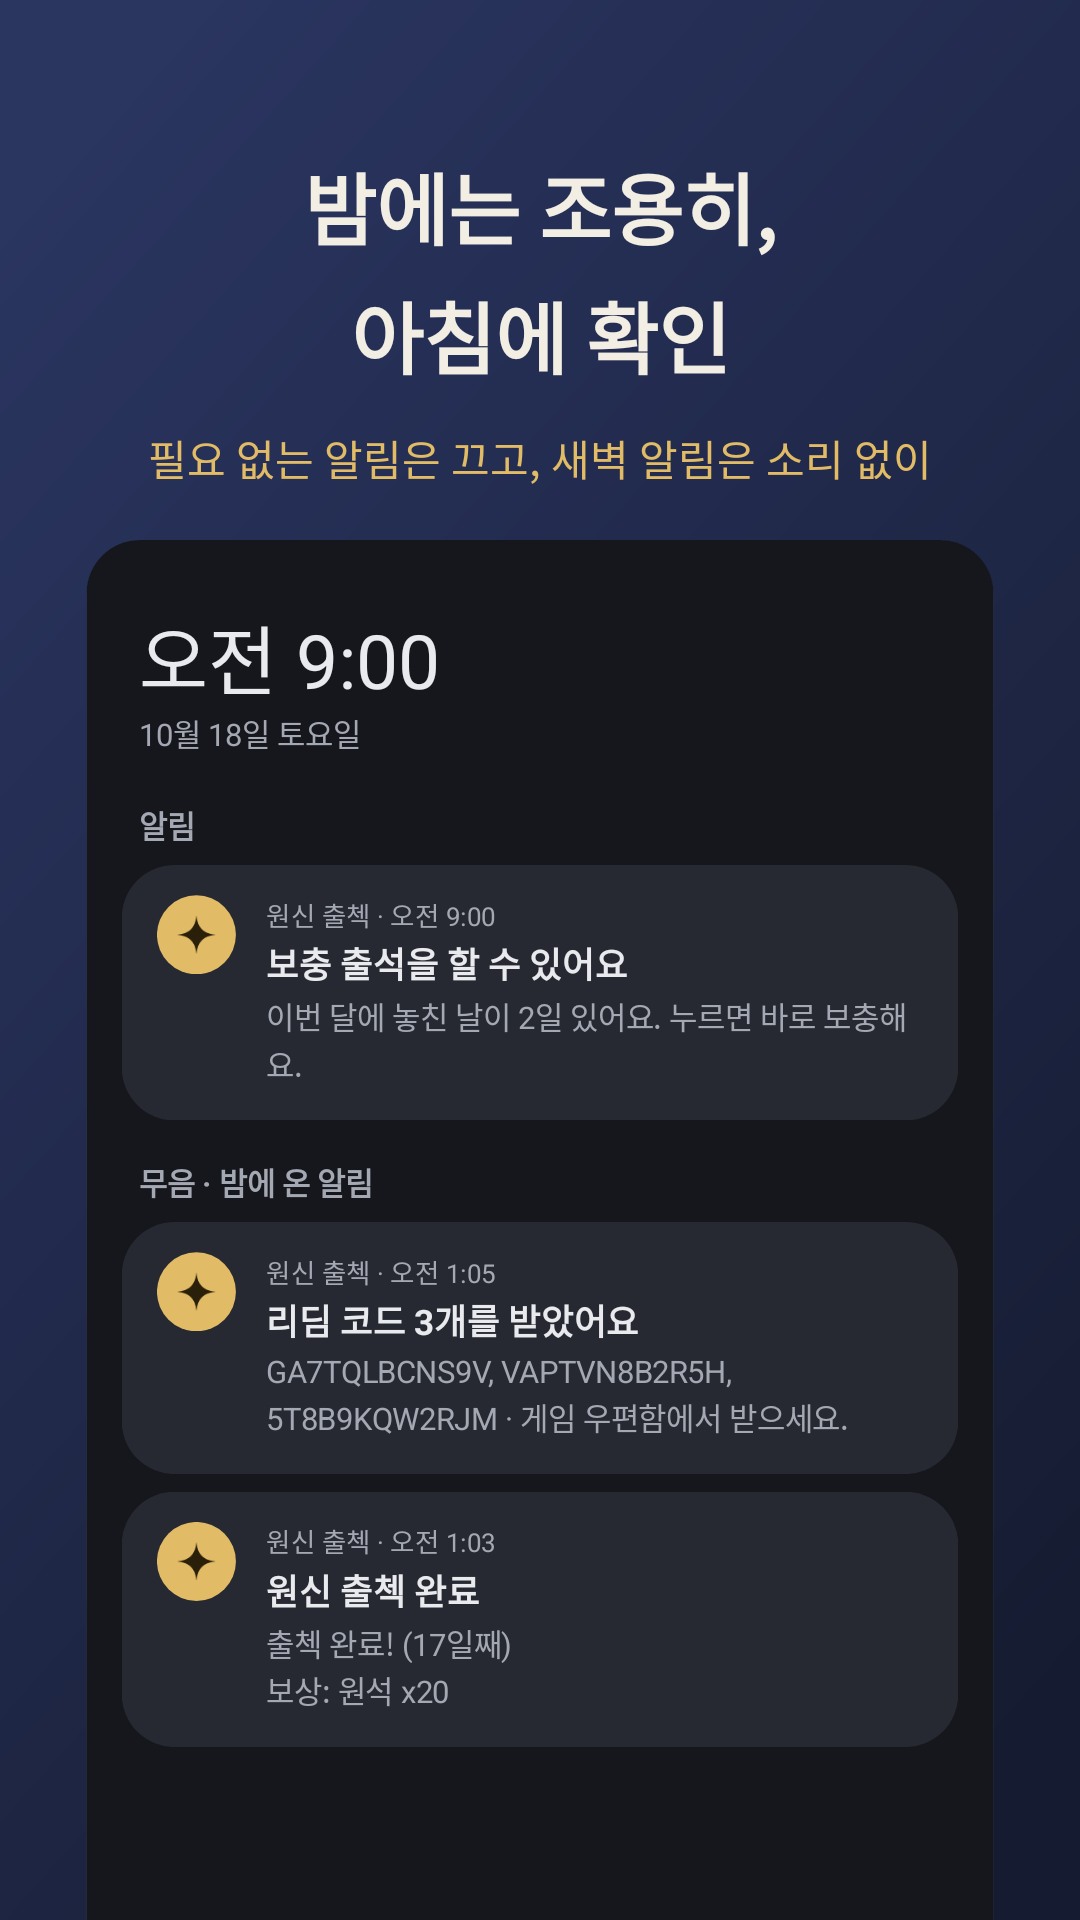
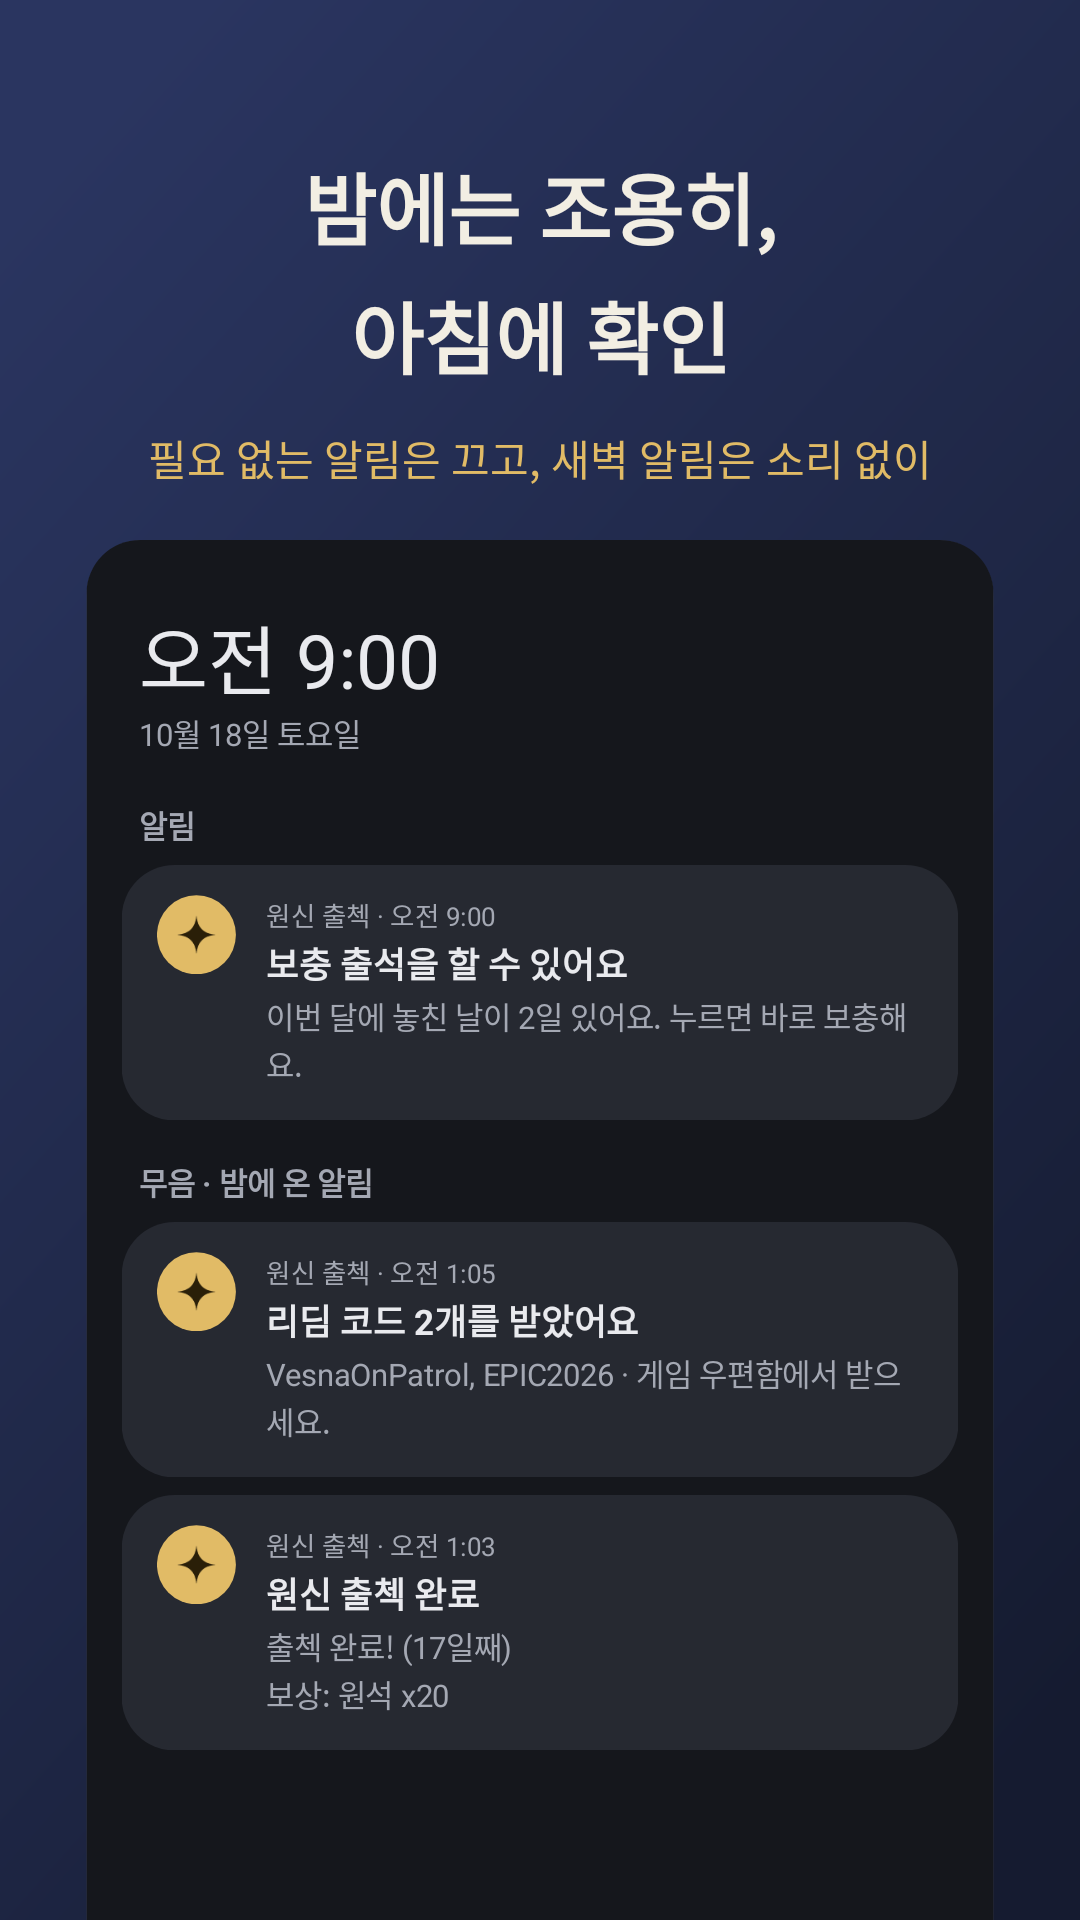
예시 리딤 코드를 실제 공개된 코드와 위키 보상으로(VesnaOnPatrol, EPIC2026, OPERACOLLAB)
스토어 스크린샷 1·3·4번과 소개 페이지 이미지도 다시 그림.

Claude-Session: https://claude.ai/code/session_01AVkzu9p2ytMeGHejvvs68H

diff --git a/app/src/test/java/kr/sumi/checkin/StoreAssetsTest.kt b/app/src/test/java/kr/sumi/checkin/StoreAssetsTest.kt
@@ -93,15 +93,15 @@ class StoreAssetsTest {
         currentId = "100000000", uid = "100000000", nickname = "여행자", server = "아시아 서버", signedToday = true,
         totalDays = 17, month = 10, reward = "원석 x20", lastChecked = "10월 18일 01:03", nextRun = "내일 01:02",
         makeUpMissed = 2, redeemRole = "아시아 서버 · 여행자 (Lv.60) · UID 800000000",
-        redeemSummary = "10월 18일 01:05 · 새 코드 1개 입력: OKTCV81F9H8D", redeemShort = "새 코드 1개 입력",
+        redeemSummary = "10월 18일 01:05 · 새 코드 1개 입력: VesnaOnPatrol", redeemShort = "새 코드 1개 입력",
         redeemWhen = "10월 18일 01:05", historyUnseen = 3,
         calendar = sampleCalendar, calendarReachable = 31,
     )
 
     /** 방송 직후처럼 새 코드 여러 개를 넣은 상태. 리딤 장면 스크린샷용. */
     private val redeemed = signed.copy(
-        redeemSummary = "10월 18일 21:12 · 새 코드 3개 입력: 5T8B9KQW2RJM, GA7TQLBCNS9V, VAPTVN8B2R5H",
-        redeemShort = "새 코드 3개 입력", redeemWhen = "10월 18일 21:12",
+        redeemSummary = "10월 18일 21:12 · 새 코드 2개 입력: VesnaOnPatrol, EPIC2026",
+        redeemShort = "새 코드 2개 입력", redeemWhen = "10월 18일 21:12",
     )
 
     /**
@@ -238,7 +238,7 @@ class StoreAssetsTest {
             addView(section("알림"))
             addView(notification("오전 9:00", "보충 출석을 할 수 있어요", "이번 달에 놓친 날이 2일 있어요. 누르면 바로 보충해요."))
             addView(section("무음 · 밤에 온 알림"))
-            addView(notification("오전 1:05", "리딤 코드 3개를 받았어요", "GA7TQLBCNS9V, VAPTVN8B2R5H, 5T8B9KQW2RJM · 게임 우편함에서 받으세요."))
+            addView(notification("오전 1:05", "리딤 코드 2개를 받았어요", "VesnaOnPatrol, EPIC2026 · 게임 우편함에서 받으세요."))
             addView(notification("오전 1:03", "원신 출첵 완료", "출첵 완료! (17일째)\n보상: 원석 x20"),
                 LinearLayout.LayoutParams(MATCH_PARENT, WRAP_CONTENT).apply { topMargin = dp(8) })
         }
@@ -314,8 +314,8 @@ class StoreAssetsTest {
             title = "보상 내역 · 여행자", status = "출석·보충 보상 총 412번 받았어요", month = "2026-10",
             entries = entries, total = 412, loaded = true,
             codes = listOf(
-                RedeemedCode("GA7TQLBCNS9V", at(18), "Primogem*60;Mora*10000;Hero's Wit*2"),
-                RedeemedCode("VAPTVN8B2R5H", at(18), "Primogem*60;Mora*5000;Mystic Enhancement Ore*5"),
+                RedeemedCode("VesnaOnPatrol", at(18), "Primogem*40;Mora*20000;Hero's Wit*3"),
+                RedeemedCode("EPIC2026", at(18), "Primogem*40;Mora*20000;Hero's Wit*5"),
                 RedeemedCode("OPERACOLLAB", at(2), "Primogem*30;Mora*20000;Hero's Wit*2"),
             ),
             newAwardKeys = setOf("18"), seenRedeemAt = at(10),

diff --git a/app/src/test/java/kr/sumi/checkin/MainScreenSnapshotTest.kt b/app/src/test/java/kr/sumi/checkin/MainScreenSnapshotTest.kt
@@ -27,7 +27,7 @@ class MainScreenSnapshotTest {
         loggedIn = true, accounts = listOf(AccountChip("100000000", "여행자", true), AccountChip("100000001", "부계정", false)),
         currentId = "100000000", uid = "100000000", nickname = "여행자", server = "아시아 서버", signedToday = true, totalDays = 17, month = 10,
         reward = "원석 x20", lastChecked = "10월 18일 21:04", nextRun = "내일 01:03", makeUpMissed = 2,
-        redeemRole = "아시아 서버 · 여행자 (Lv.60) · UID 800000000", redeemSummary = "10월 18일 01:04 · 새 코드 1개 입력: OKTCV81F9H8D", redeemShort = "새 코드 1개 입력", redeemWhen = "10월 18일 01:04", historyUnseen = 3,
+        redeemRole = "아시아 서버 · 여행자 (Lv.60) · UID 800000000", redeemSummary = "10월 18일 01:04 · 새 코드 1개 입력: VesnaOnPatrol", redeemShort = "새 코드 1개 입력", redeemWhen = "10월 18일 01:04", historyUnseen = 3,
         calendar = sampleCalendar, calendarReachable = 30, calendarMissed = 1,
     )
     private val waiting = MainUiState(

diff --git a/app/src/test/java/kr/sumi/checkin/HistorySnapshotTest.kt b/app/src/test/java/kr/sumi/checkin/HistorySnapshotTest.kt
@@ -32,8 +32,8 @@ class HistorySnapshotTest {
         total = 412,
         loaded = true,
         codes = listOf(
-            RedeemedCode("GA7TQLBCNS9V", at(18, 21), "Primogem*60;Mora*10000;Hero's Wit*2"),
-            RedeemedCode("5T8B9KQW2RJM", at(18, 21), null),
+            RedeemedCode("VesnaOnPatrol", at(18, 21), "Primogem*40;Mora*20000;Hero's Wit*3"),
+            RedeemedCode("GENSHINGIFT", at(18, 21), null),
             RedeemedCode("OPERACOLLAB", at(2, 12), "Primogem*30;Mora*20000;Hero's Wit*2"),
         ),
         newAwardKeys = setOf("18"),
